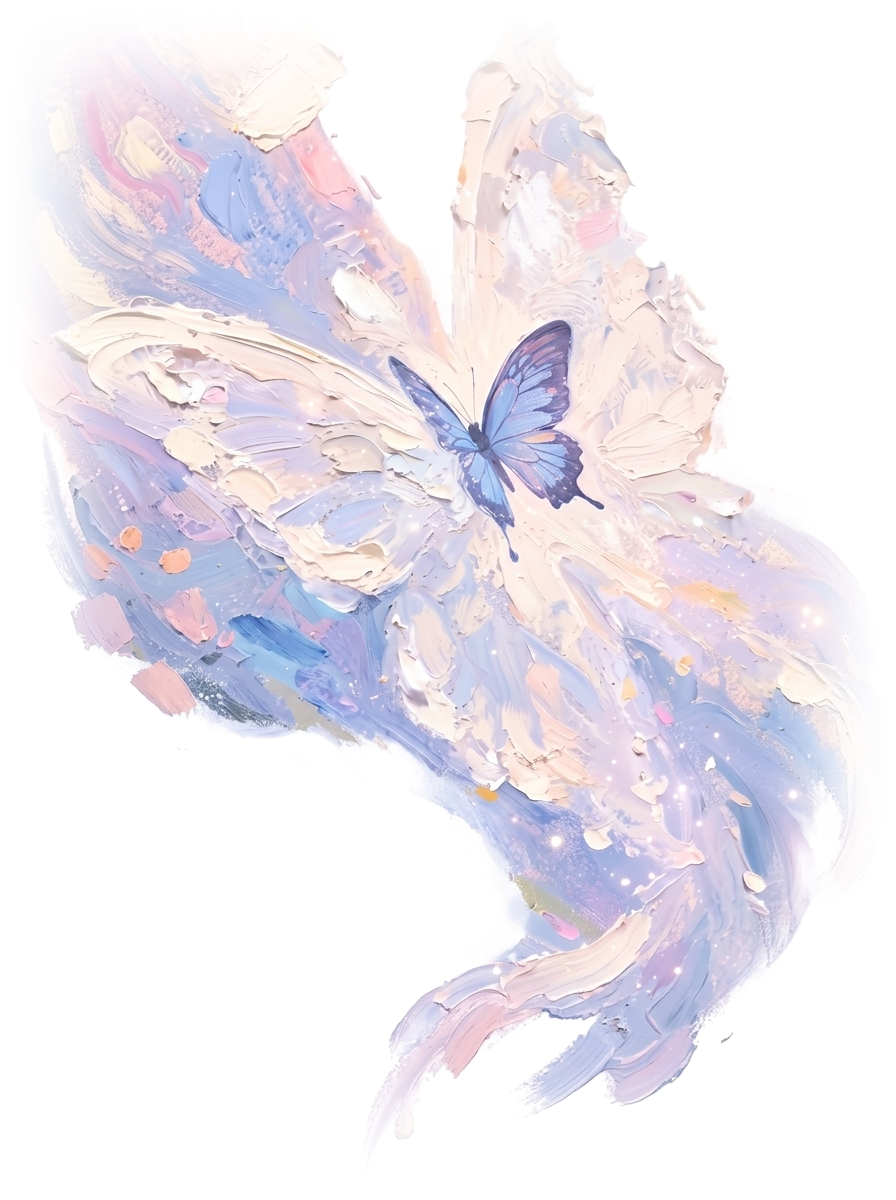
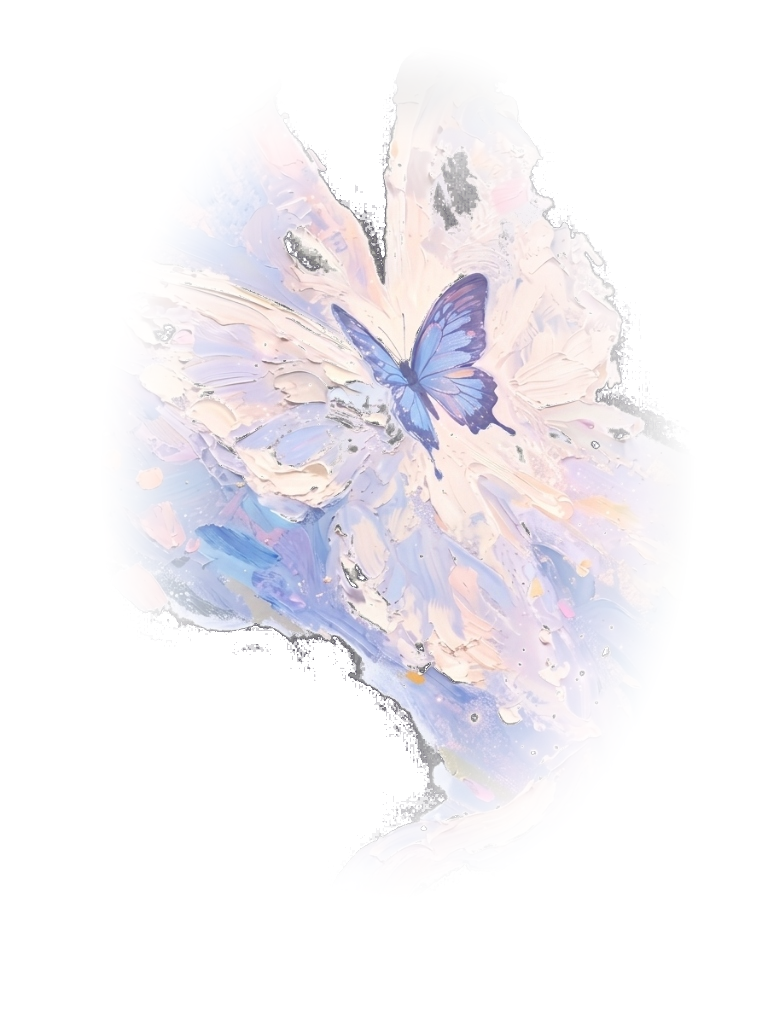
fix: re-render hero-dreamy-butterfly.png with crystal clear transparency, zero dark border, soft radial feathering, and 100% hero height match

diff --git a/site/index.html b/site/index.html
@@ -1045,9 +1045,9 @@ input[type=range].slider::-moz-range-thumb{width:20px;height:20px;border-radius:
     <div class="star" style="top:60px;left:38%;"></div><div class="star" style="top:140px;left:62%;"></div>
     <div class="star" style="top:220px;left:80%;width:2px;height:2px;"></div><div class="star" style="top:90px;left:52%;width:2px;height:2px;"></div>
 
-    <!-- Full-height hero butterfly oil painting artwork attached to the right edge with edge gradient fade & 80% opacity -->
+    <!-- Full-height hero butterfly oil painting artwork attached to the right edge with clean ethereal edge gradient fade & 85% opacity -->
     <div class="hero-artwork-container" style="position:absolute;top:0;right:0;bottom:0;height:100%;display:flex;align-items:center;justify-content:flex-end;pointer-events:none;z-index:1;overflow:hidden;">
-      <img src="hero-butterfly-oil.png" alt="ReRouteHer Ethereal Butterfly Oil Painting" class="hero-butterfly-img" style="height:100%;max-height:100%;width:auto;object-fit:contain;object-position:right center;opacity:0.8;-webkit-mask-image:radial-gradient(ellipse 75% 85% at 52% 48%, rgba(0,0,0,1) 45%, rgba(0,0,0,0.85) 65%, rgba(0,0,0,0) 100%);mask-image:radial-gradient(ellipse 75% 85% at 52% 48%, rgba(0,0,0,1) 45%, rgba(0,0,0,0.85) 65%, rgba(0,0,0,0) 100%);filter:drop-shadow(0 20px 35px rgba(50,45,90,.16));" />
+      <img src="hero-dreamy-butterfly.png" alt="ReRouteHer Ethereal Butterfly Oil Painting" class="hero-butterfly-img" style="height:100%;max-height:100%;width:auto;object-fit:contain;object-position:right center;opacity:0.85;-webkit-mask-image:radial-gradient(ellipse 75% 85% at 52% 48%, rgba(0,0,0,1) 35%, rgba(0,0,0,0.85) 60%, transparent 95%);mask-image:radial-gradient(ellipse 75% 85% at 52% 48%, rgba(0,0,0,1) 35%, rgba(0,0,0,0.85) 60%, transparent 95%);filter:contrast(1.02) brightness(1.03);" />
     </div>
 
     <div style="position:relative;display:flex;align-items:center;justify-content:space-between;padding:26px 60px;z-index:2;">
